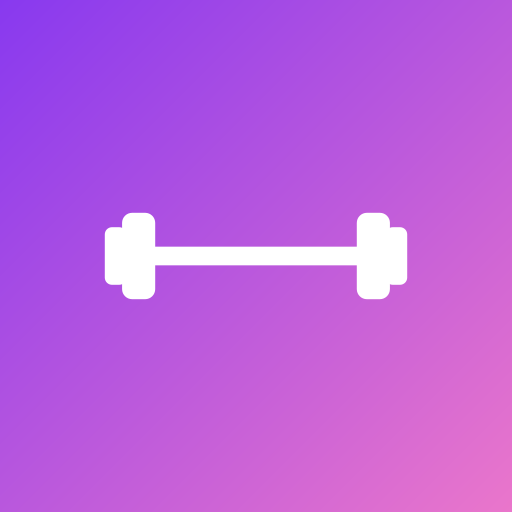
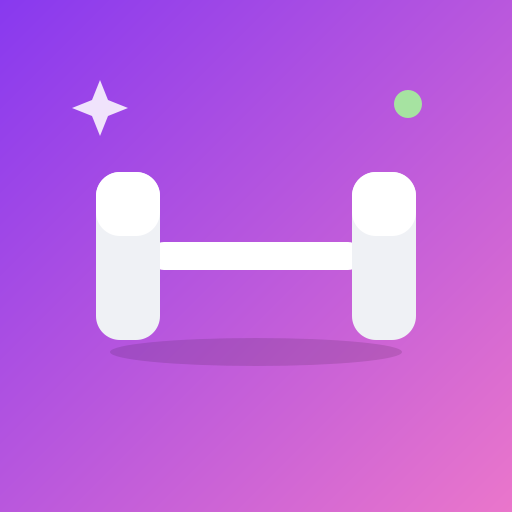
Rediseñar ícono de la app con más profundidad (v1.9.1)
Mismo lenguaje visual que bona-consumos/gastos (fondo con gradiente
redondeado, acentos de sparkle + punto de color, forma principal en
2 tonos con sombra) en vez del dibujo plano anterior. Fuente en
icon-source.svg (512x512, rasterizado con rsvg-convert a los 4 tamaños
que usa manifest.json/index.html); la variante maskable queda sin el
redondeo del fondo (full-bleed) para que el sistema aplique su propia
máscara, a diferencia de bona-consumos que reusa el mismo diseño
redondeado en ambas variantes.

Claude-Session: https://claude.ai/code/session_01Rpx3iethgHCd7bmnK7aDBs

Changed region(s): [[0.1875, 0.3125, 0.8125, 0.7188], [0.125, 0.1562, 0.25, 0.2812], [0.75, 0.1562, 0.8438, 0.25]]

diff --git a/index.html b/index.html
@@ -1138,7 +1138,7 @@
   var STORAGE_KEY = "gymTrackerData_v4";
 
   // subir APP_VERSION y agregar una entrada acá en cada cambio que valga la pena avisar
-  var APP_VERSION = "1.9.0";
+  var APP_VERSION = "1.9.1";
   var CHANGELOG = {
     "1.1.0": [
       "Ahora te avisamos acá cuando la app tiene novedades, en vez de que te enteres por sorpresa."
@@ -1239,6 +1239,9 @@
     "1.9.0": [
       "Nuevo: cuenta con inicio de sesión (código por email, sin contraseña) para guardar tu rutina y tu historial en la nube y tenerlos en cualquier dispositivo. Es opcional — sin iniciar sesión la app sigue funcionando 100% en este celular, como siempre.",
       "El ícono de nube junto al de historial abre \"Cuenta y sincronización\"."
+    ],
+    "1.9.1": [
+      "Ícono nuevo de la app: la mancuerna ahora tiene relieve y sombra en vez de ser un dibujo plano."
     ]
   };
   var SEEN_VERSION_KEY = "gymTrackerSeenVersion_v1";

diff --git a/sw.js b/sw.js
@@ -1,4 +1,4 @@
-const CACHE = "gym-app-v28";
+const CACHE = "gym-app-v29";
 const ASSETS = ["./", "./index.html", "./manifest.json"];
 
 self.addEventListener("install", (event) => {
